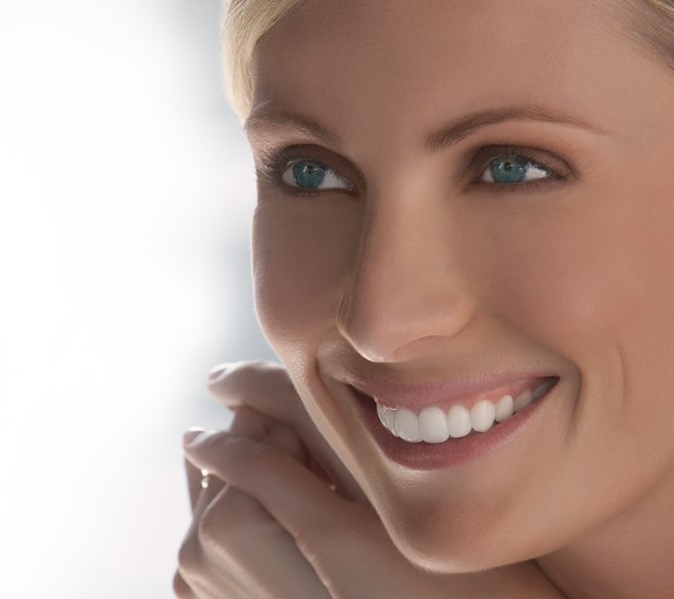
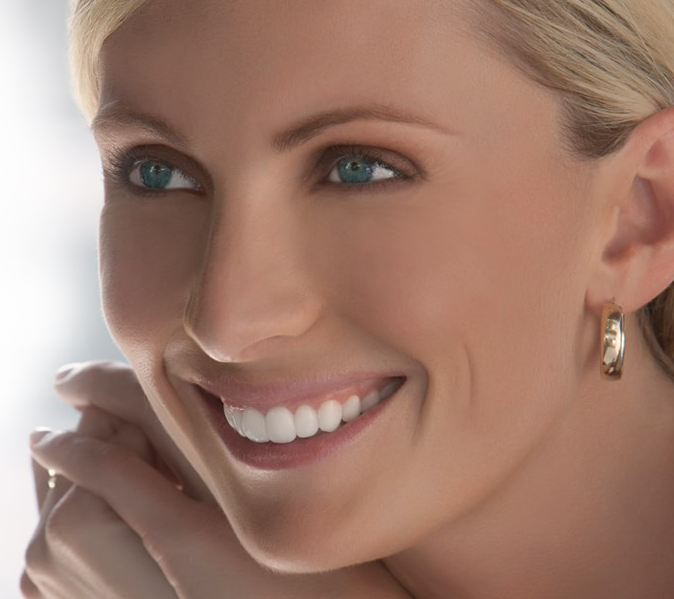
created new images for the mobile carousel on index

diff --git a/index.php b/index.php
@@ -388,7 +388,7 @@
                     <p class="yellowFont uppercase" style="text-transform: uppercase;" id="trends-subtitle"><cms:show week_title /></p>
                   </div>
                   <a href="<cms:show trend_url />" target="_blank"><img src="<cms:show trend_image />" class="img-responsive hidden-xs" id="trends-image"/></a>
-                  <a href="<cms:show trend_url />" target="_blank"><img src="<cms:show mobile_trend_image />" class="img-responsive hidden-sm hidden-md hidden-lg" id="trends-image" style="max-width: 400px"/></a>
+                  <a href="<cms:show trend_url />"><img src="<cms:show mobile_trend_image />" class="img-responsive hidden-sm hidden-md hidden-lg" id="trends-image" style="max-width: 400px"/></a>
                   <p class="link" id="trends-link" style="margin-bottom: 20px;"><a href="<cms:show trend_url />" target="_blank" class="brown-link"><u>VIEW THIS WEEKS'S TREND</u></a></p>
                   </cms:pages>
                 </div>
@@ -448,6 +448,19 @@
           </div>
         
           <?php include('footer.php'); ?>
+          
+          <script>
+          vs_lightbox_start_off = true;
+
+          window.setTimeout(function(){
+
+            vs_lightbox_on();
+
+          }, 5000);
+          </script>
+          
+          <script type="text/javascript" src="https://www.viralsweep.com/lightbox-widget/wid-4685aaab-17128.js"></script>
+
         </div> 
 
 </body>
